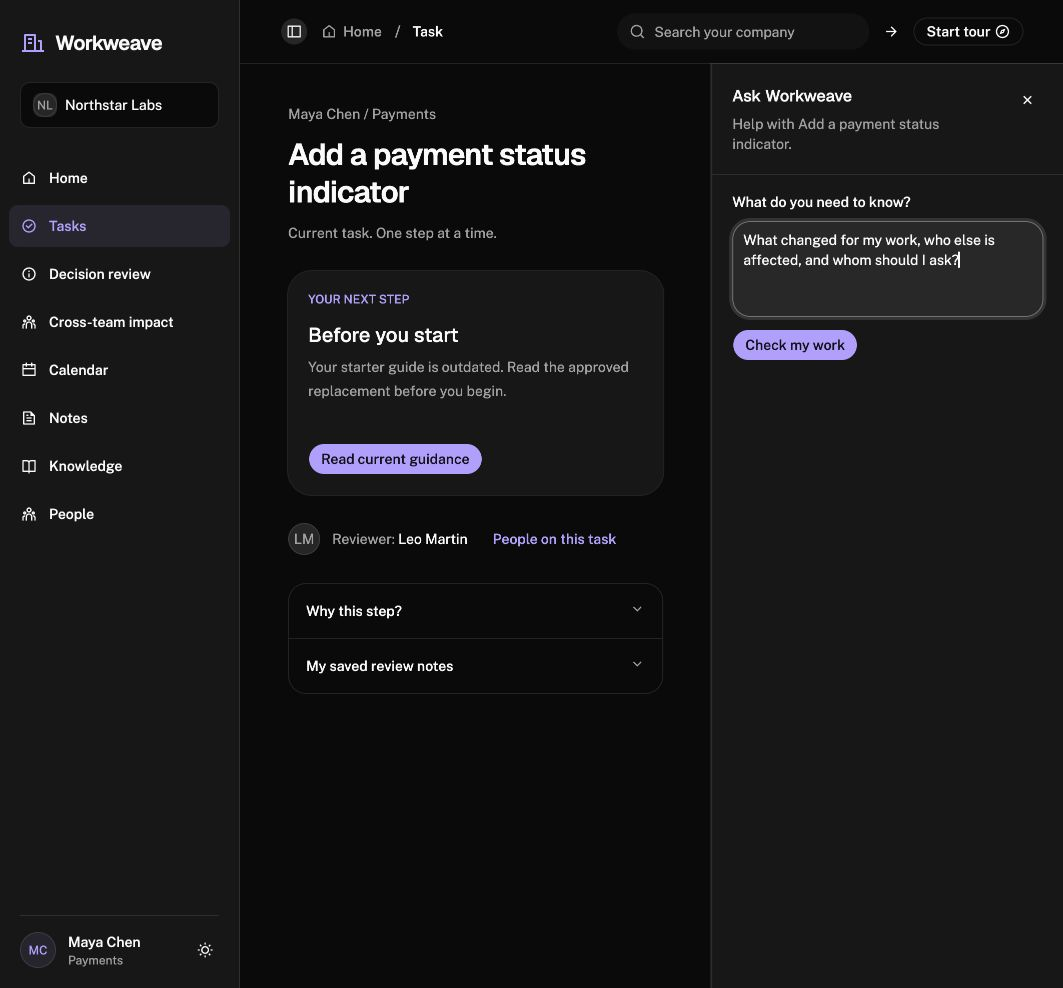
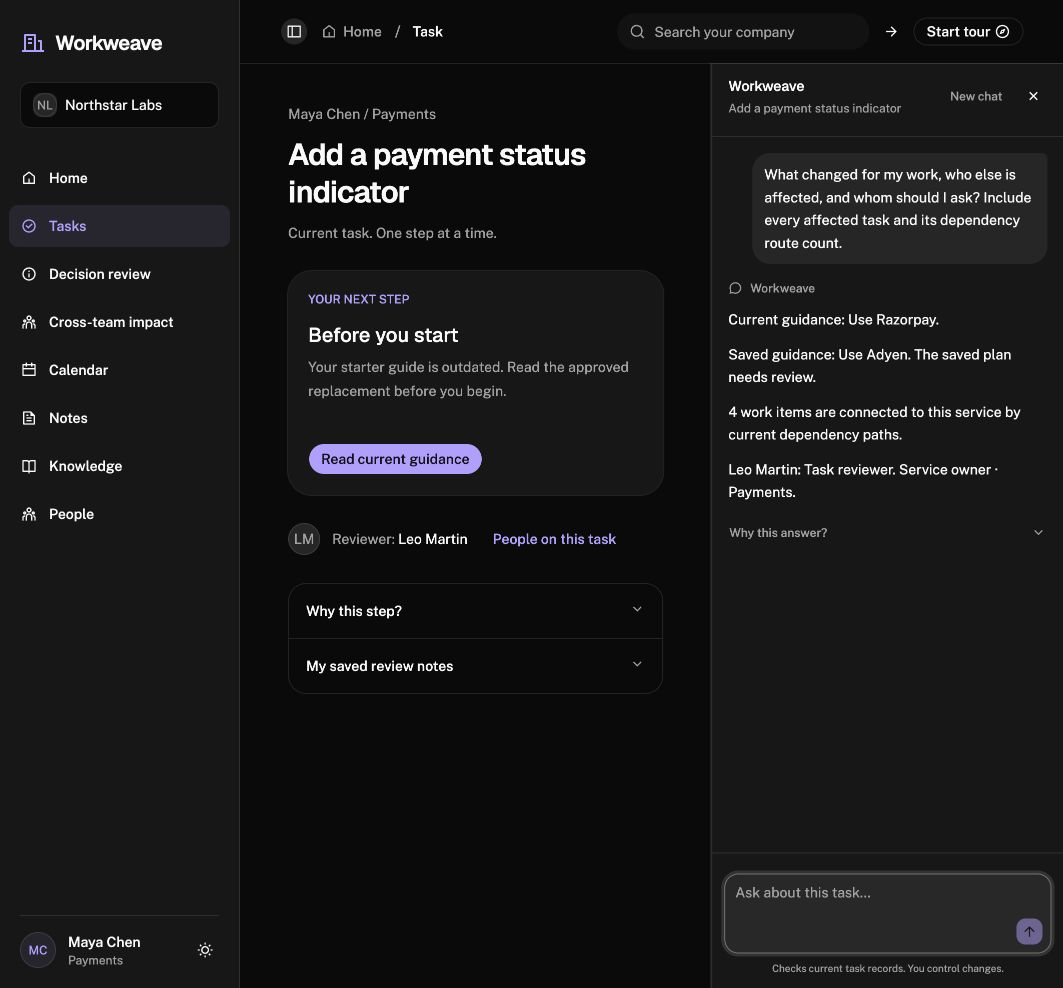
Record chat verification and mark earlier replies as previous checks [skip render]

diff --git a/frontend/src/lib/app-store.ts b/frontend/src/lib/app-store.ts
@@ -107,7 +107,10 @@ export const appStore = createStore({
     ) => ({
       ...context,
       assistantMessages: [
-        ...context.assistantMessages,
+        ...context.assistantMessages.map((message) => ({
+          ...message,
+          outdated: true,
+        })),
         {
           id: context.assistantSequence + 1,
           answer: event.answer,

diff --git a/EVALUATION.md b/EVALUATION.md
@@ -4,8 +4,8 @@ These checks use small, builder-authored synthetic fixtures. They are not produc
 
 | Check | Last recorded result | Reproduce |
 | --- | --- | --- |
-| Backend, graph and provider contracts | 76 tests passed | `uv run --locked python -m unittest discover -s tests -v` |
-| Frontend state, search URLs and graph-proof validation | 18 tests passed | `npm test --prefix frontend` |
+| Backend, graph and provider contracts | 77 tests passed | `uv run --locked python -m unittest discover -s tests -v` |
+| Frontend state, search URLs and graph-proof validation | 22 tests passed | `npm test --prefix frontend` |
 | Cross-team impact | 7 cases passed | `uv run --locked python scripts/evaluate_impact.py` |
 | Relationship changes with identical source text | 4 cases passed | `uv run --locked python scripts/evaluate_relationships.py` |
 | Graph retrieval diagnostic | 8 cases passed | `uv run --locked python scripts/evaluate.py` |
@@ -39,4 +39,6 @@ The historical paid-model report retains the earlier Provider A/B/C labels. Grap
 
 [Recorded live result](reports/agent-live.json) uses the configured OpenAI model and an isolated local graph. The same question was asked before and after removal of Billing → Checkout. Billing left the answer; Support remained with one route instead of two. Source text was unchanged. Both answers identified the stale plan and linked reviewers. No saved plan changed. These are two live runs on one synthetic scenario, not a general accuracy benchmark. Gemini was not tested with a live key. To repeat the paid check against local Docker on port 6381, run `uv run --locked python scripts/evaluate_agent.py`. It makes two paid agent calls and deletes only its disposable graph.
 
-[Full CI passed after usage-counter removal](https://github.com/sasivarnan/workweave-falkordb/actions/runs/39145047287) at commit `1e494b3`: 76 backend tests, 18 frontend tests, graph evaluations, package and frontend builds, formatting and secret checks. Local access and agent tests also passed without paid provider calls.
+[Full CI passed for the compact chat and graph-evidence feature](https://github.com/sasivarnan/workweave-falkordb/actions/runs/39146976975) at commit `b1c9700`: 77 backend tests, 22 frontend tests, graph evaluations, package and frontend builds, formatting and secret checks. UI verification used an isolated FalkorDB Cloud graph and simulated model replies, with no paid API calls. The earlier live-provider report remains separate from this UI check.
+
+The isolated UI check confirmed a collapsed evidence panel, source navigation, two chat replies, affected items changing from four to three, Support routes changing from two to one, and restoration of the original result. Enter, Shift+Enter, Escape, New chat and draft retention were checked in the desktop browser. Mobile layout was not checked in a device browser.
